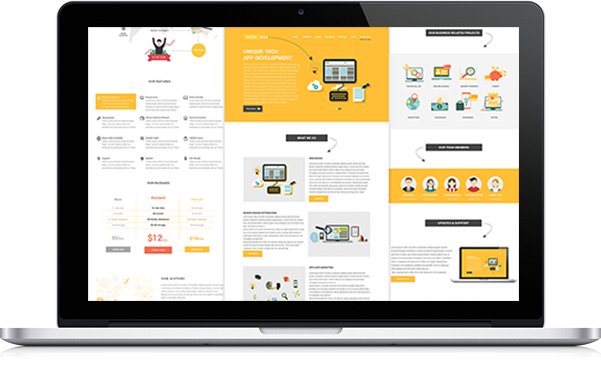
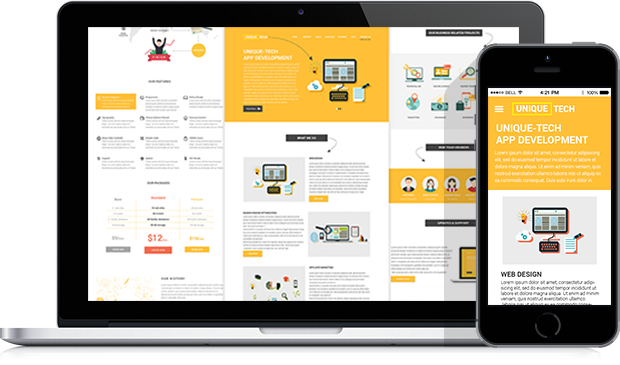
finished welcome section

diff --git a/src/templates/partials/welcome.html b/src/templates/partials/welcome.html
@@ -1,14 +1,31 @@
 <section class="welcome">
-	<div class="content_wrapper flex-wrap">
+	<div class="content_wrapper header--flex welcome--center">
 	  <div class="welcome__content">
-		<h1 class="welcome__header">Unique-tech app development</h1>
+		<h2 class="welcome__header">Unique-tech app development</h2>
 		<p>Lorem ipsum dolor sit amet, consectetur adipisicing elit, sed do eiusmod tempor incididunt ut labore et dolore magna aliqua. Ut enim ad minim veniam, quis nostrud exercitation ullamco. 
 		laboris nisi ut aliquip ex ea commodo consequat. Duis aute irure dolor in reprehenderit in voluptate velit esse cillum dolore eu fugiat nulla pariatur. Excepteur sint occaecat cupidatat non proident, sunt in culpa qui officia deserunt mollit.</p>
-		<button type="button btn-welcome">View More</button>
+		<button type="button" class="btn__welcome">View More <i class="fas fa-paper-plane"></i></button>
 	</div>
-	<div class="welcome__imgs">
-	    <img src="images/laptop.png">
-		<img src="images/mob.png">
-	</div>
+	<div class="slideshow-container">
+
+
+		  <div class="mySlides fade">
+		    <img src="images/laptop.png" class="welcome__img" style="width:100%">
+		  </div>
+
+		  <div class="mySlides fade">
+		    <img src="images/laptop.png" class="welcome__img" style="width:100%">
+		  </div>
+
+		  <div class="mySlides fade">
+		    <img src="images/laptop.png" class="welcome__img" style="width:100%">
+		  </div>
+		  <div style="text-align:center">
+		  <span class="dot" onclick="currentSlide(1)"></span> 
+		  <span class="dot" onclick="currentSlide(2)"></span> 
+		  <span class="dot" onclick="currentSlide(3)"></span> 
+		</div>
+		</div>
+		
   </div>
 </section>

diff --git a/src/style/_welcome.scss b/src/style/_welcome.scss
@@ -1,14 +1,74 @@
 .welcome {
+	padding-top: 75px;
+	padding-bottom: 56px;
 	background-color: #ffc038;
+	.welcome--center {
+		align-items: center;
+	}
 	&__header {
 		color: #fff;
+		font-size: 2.4em;
+        text-transform: uppercase;
+        margin-bottom: 46px;
+        font-weight: normal;
 	}
-	.flex-wrap {
-		display: flex;
+	&__content {
+		max-width: 364px; 
+		p {
+			color: #fff;
+			line-height: 1.5;
+		}
+
 	}
-	// &__content {
-	// 	max-width: 389px; 
-	// }
+    .welcome__img{
+		max-width: 500px;
+		height: 300px;
+   }
+
+
+.slideshow-container {
+  max-width: 1000px;
+  position: relative;
+  margin: auto;
+}
+
+/* Hide the images by default */
+.mySlides {
+    display: none;
+}
+
+.dot {
+  cursor: pointer;
+  height: 10px;
+  width: 10px;
+  margin: 0 2px;
+  background-color: #464646;
+  border-radius: 50%;
+  display: inline-block;
+  transition: background-color 0.6s ease;
+}
+
+.active, .dot:hover {
+  background-color: #fff;
+}
+
+/* Fading animation */
+.fade {
+  -webkit-animation-name: fade;
+  -webkit-animation-duration: 1.5s;
+  animation-name: fade;
+  animation-duration: 1.5s;
+}
+
+@-webkit-keyframes fade {
+  from {opacity: .4} 
+  to {opacity: 1}
+}
+
+@keyframes fade {
+  from {opacity: .4} 
+  to {opacity: 1}
+}
 
 
 }

diff --git a/src/index.html b/src/index.html
@@ -5,6 +5,7 @@
 	<meta name="viewport" content="width=device-width, initial-scale=1.0">
 	<title>Crazy octopus</title>
 	<meta name="description" content="CrazyOctopus website">
+	<link rel="stylesheet" href="https://use.fontawesome.com/releases/v5.2.0/css/all.css" integrity="sha384-hWVjflwFxL6sNzntih27bfxkr27PmbbK/iSvJ+a4+0owXq79v+lsFkW54bOGbiDQ" crossorigin="anonymous">
 	<link href="https://fonts.googleapis.com/css?family=Roboto:100,300,400,500,700,900" rel="stylesheet">
 	<link href="https://fonts.googleapis.com/css?family=Open+Sans:400,700" rel="stylesheet">
 	<link rel="stylesheet" type="text/css" src="css/main.css">
@@ -12,6 +13,10 @@
 </head>
 
 <body>
-
+    {% include "partials/header.html" %}	
+    
+    {% include "partials/welcome.html" %}
+  
+  <script type="text/javascript" src="js/slider.js"></script>
 </body>
  </html> 

diff --git a/src/js/slider.js b/src/js/slider.js
@@ -1,0 +1,30 @@
+var slideIndex = 1;
+showSlides(slideIndex);
+
+// Next/previous controls
+function plusSlides(n) {
+  showSlides(slideIndex += n);
+}
+
+// Thumbnail image controls
+function currentSlide(n) {
+  showSlides(slideIndex = n);
+}
+
+function showSlides(n) {
+  var i;
+  var slides = document.getElementsByClassName("mySlides");
+  var dots = document.getElementsByClassName("dot");
+  if (n > slides.length) {slideIndex = 1} 
+  if (n < 1) {slideIndex = slides.length}
+  for (i = 0; i < slides.length; i++) {
+      slides[i].style.display = "none"; 
+  }
+  for (i = 0; i < dots.length; i++) {
+      dots[i].className = dots[i].className.replace(" active", "");
+  }
+  slides[slideIndex-1].style.display = "block"; 
+  dots[slideIndex-1].className += " active";
+
+}
+

diff --git a/src/style/_buttons.scss b/src/style/_buttons.scss
@@ -9,11 +9,19 @@
 
 	&__welcome {
 		@include robreg;
-		bg-color: $btngrey;
-		line-height: 50px;
-		width: 150px;
+		background-color: $btngrey;
+		border: none;
+		border-radius: 2px;
+		padding: 20px 25px;
 		color: #ffffff;
 		text-transform: capitalize;
+		margin-top: 35px;
+	i {
+		transform: rotate(50deg);
+		font-size: 17px;
+		margin-left: 6px;
+	}
+
 	}
 	
 	&__hire {

diff --git a/src/style/_common.scss b/src/style/_common.scss
@@ -91,6 +91,5 @@ $big: 1.625rem;
 .content_wrapper {
 	max-width: 1004px;
 	margin: 0 auto;
-	padding-left: 148px;
-    padding-right: 148px;
+
 }
